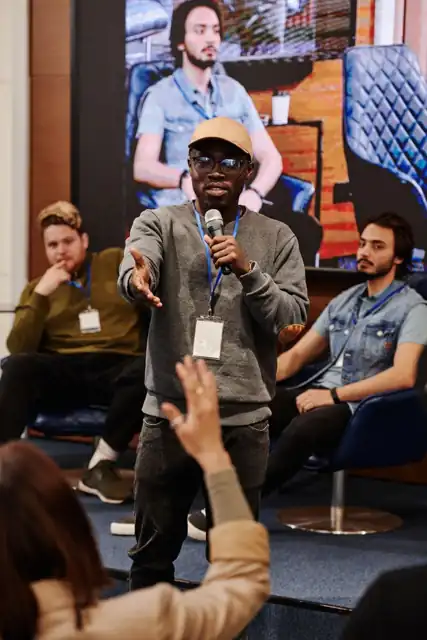
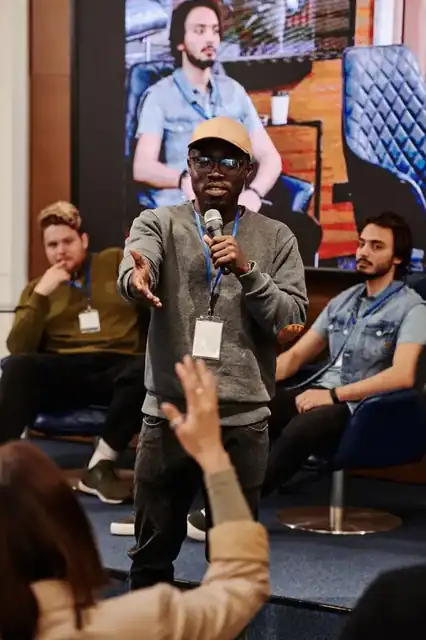
Use unique event imagery across event list

diff --git a/src/data/projects.ts b/src/data/projects.ts
@@ -23,36 +23,36 @@ export const projects: Project[] = [
   { slug: 'skysprint-drone-trial', kind: 'video', category: 'Aerial Tech', top: 'SkySprint', bottom: 'Drone Trial', image: image('drone'), summary: 'Pilot a protected quadcopter through a precision course built by the campus aerial club.' },
   { slug: 'pitchforge-summit', kind: 'photo', category: 'Entrepreneurship', top: 'PitchForge', bottom: 'Summit', image: image('startup'), summary: 'Student founders share early ideas, receive feedback and pitch for small prototype grants.' },
   { slug: 'ampersand-live', kind: 'video', category: 'Music', top: 'Ampersand', bottom: 'Live', image: image('music'), summary: 'Campus bands turn the amphitheatre into a night of original music, covers and collaboration.' },
-  { slug: 'circuitcraft-iot', kind: 'photo', category: 'Technology', top: 'CircuitCraft', bottom: 'IoT Challenge', image: image('code'), summary: 'Build a connected device that makes one everyday college task simpler, safer or more fun.' },
-  { slug: 'botbuild-starter-lab', kind: 'video', category: 'Workshop', top: 'BotBuild', bottom: 'Starter Lab', image: image('robotics'), summary: 'A welcoming hands-on lab for first-time builders to make a small moving machine together.' },
-  { slug: 'ux-for-all', kind: 'photo', category: 'Design', top: 'UX for', bottom: 'All', image: image('design'), summary: 'Audit a student service for clarity and access, then redesign the moments that cause friction.' },
-  { slug: 'color-canvas', kind: 'video', category: 'Arts', top: 'Color', bottom: 'Canvas', image: image('rangoli'), summary: 'An all-day arts festival of murals, installations, sketches and conversations across campus.' },
-  { slug: 'campus-reel-relay', kind: 'photo', category: 'Film', top: 'Campus Reel', bottom: 'Relay', image: image('film'), summary: 'Small crews pass a story from one group to the next, creating one unexpected campus film.' },
-  { slug: 'darkroom-discovery', kind: 'video', category: 'Photography', top: 'Darkroom', bottom: 'Discovery', image: image('photo'), summary: 'Learn the quiet craft of analogue photography, from contact sheet to your first print.' },
-  { slug: 'street-step-cypher', kind: 'photo', category: 'Dance', top: 'Street Step', bottom: 'Cypher', image: image('dance'), summary: 'A casual circle for freestyle, shared movement and a friendly showcase of campus dance styles.' },
-  { slug: 'policy-parley', kind: 'video', category: 'Debate', top: 'Policy &', bottom: 'Parley', image: image('debate'), summary: 'A public forum where student teams unpack a big campus issue through evidence and debate.' },
-  { slug: 'valor-vault-night', kind: 'photo', category: 'Gaming', top: 'Valor Vault', bottom: 'Night', image: image('gaming'), summary: 'A social gaming night with quick brackets, watch parties and space for every skill level.' },
-  { slug: 'aerial-mapping', kind: 'video', category: 'Workshop', top: 'Aerial', bottom: 'Mapping', image: image('drone'), summary: 'Explore the basics of drone imagery, flight planning and responsible aerial mapping.' },
-  { slug: 'founder-friday', kind: 'photo', category: 'Entrepreneurship', top: 'Founder', bottom: 'Friday', image: image('startup'), summary: 'An easygoing pitch night for sharing early startup ideas and meeting possible collaborators.' },
-  { slug: 'acoustic-evenings', kind: 'video', category: 'Music', top: 'Acoustic', bottom: 'Evenings', image: image('music'), summary: 'An intimate open stage for singer-songwriters, unplugged sets and songs worth staying late for.' },
-  { slug: 'algorithm-avalanche', kind: 'photo', category: 'Coding', top: 'Algorithm', bottom: 'Avalanche', image: image('code'), summary: 'An individual coding round of carefully crafted problems, quick thinking and a live leaderboard.' },
-  { slug: 'mechmaze-race', kind: 'video', category: 'Robotics', top: 'MechMaze', bottom: 'Race', image: image('robotics'), summary: 'Build and tune a small robot to navigate a changing maze faster than the teams around you.' },
-  { slug: 'interface-remix', kind: 'photo', category: 'Design', top: 'Interface', bottom: 'Remix', image: image('design'), summary: 'Reimagine a familiar student app with stronger flows, cleaner language and playful interactions.' },
-  { slug: 'heritage-art-carnival', kind: 'video', category: 'Culture', top: 'Heritage Art', bottom: 'Carnival', image: image('rangoli'), summary: 'Student artists celebrate regional patterns, materials and stories in a shared campus carnival.' },
-  { slug: 'script-to-screen', kind: 'photo', category: 'Film', top: 'Script to', bottom: 'Screen', image: image('film'), summary: 'A filmmaking workshop about turning a small written idea into a scene that holds attention.' },
-  { slug: 'lens-light-expo', kind: 'video', category: 'Photography', top: 'Lens & Light', bottom: 'Expo', image: image('photo'), summary: 'A student photography exhibit that brings campus observations, portraits and experiments together.' },
-  { slug: 'campus-dance-crew', kind: 'photo', category: 'Dance', top: 'Campus Dance', bottom: 'Crew', image: image('dance'), summary: 'Crews share choreography, learn from each other and close the day with a collaborative finale.' },
-  { slug: 'model-un-assembly', kind: 'video', category: 'Public Speaking', top: 'Model UN', bottom: 'Assembly', image: image('debate'), summary: 'Represent a country, negotiate a resolution and practice the art of clear, constructive diplomacy.' },
-  { slug: 'mobile-gaming-masters', kind: 'photo', category: 'Esports', top: 'Mobile Gaming', bottom: 'Masters', image: image('gaming'), summary: 'A fast campus tournament for mobile players, spectators and new teams looking for a challenge.' },
-  { slug: 'drone-build-lab', kind: 'video', category: 'Aerial Tech', top: 'Drone Build', bottom: 'Lab', image: image('drone'), summary: 'Learn the components behind safe flight and assemble a simple drone platform with mentors.' },
-  { slug: 'idea-incubator-fest', kind: 'photo', category: 'Innovation', top: 'Idea Incubator', bottom: 'Fest', image: image('startup'), summary: 'An open campus festival for prototypes, feedback walls, mini talks and useful new ideas.' },
-  { slug: 'music-mashup', kind: 'video', category: 'Music', top: 'Music', bottom: 'Mashup', image: image('music'), summary: 'A genre-crossing live session that pairs unexpected student performers for one-off sets.' },
-  { slug: 'debug-derby', kind: 'photo', category: 'Coding', top: 'Debug', bottom: 'Derby', image: image('code'), summary: 'Teams race to understand, repair and explain mysterious bugs hidden inside short code challenges.' },
-  { slug: 'maker-carnival', kind: 'video', category: 'Making', top: 'Maker', bottom: 'Carnival', image: image('robotics'), summary: 'A showcase of campus makers, prototypes, tiny inventions and the stories behind how they work.' },
-  { slug: 'sketch-sprint', kind: 'photo', category: 'Design', top: 'Sketch', bottom: 'Sprint', image: image('design'), summary: 'A quick visual-thinking session for students who want to explore an idea before opening a laptop.' },
-  { slug: 'campus-culture-night', kind: 'video', category: 'Culture', top: 'Campus Culture', bottom: 'Night', image: image('rangoli'), summary: 'Food, music, art and traditions come together in one shared night on the main lawn.' },
-  { slug: 'documentary-dash', kind: 'photo', category: 'Film', top: 'Documentary', bottom: 'Dash', image: image('film'), summary: 'Find a real campus story, earn trust, shoot carefully and edit a two-minute documentary.' },
-  { slug: 'gallery-walk-talk', kind: 'video', category: 'Photography', top: 'Gallery Walk', bottom: '& Talk', image: image('photo'), summary: 'A thoughtful exhibition walk with student photographers sharing the stories behind each frame.' },
+  { slug: 'circuitcraft-iot', kind: 'photo', category: 'Technology', top: 'CircuitCraft', bottom: 'IoT Challenge', image: image('event-13'), summary: 'Build a connected device that makes one everyday college task simpler, safer or more fun.' },
+  { slug: 'botbuild-starter-lab', kind: 'video', category: 'Workshop', top: 'BotBuild', bottom: 'Starter Lab', image: image('event-14'), summary: 'A welcoming hands-on lab for first-time builders to make a small moving machine together.' },
+  { slug: 'ux-for-all', kind: 'photo', category: 'Design', top: 'UX for', bottom: 'All', image: image('event-15'), summary: 'Audit a student service for clarity and access, then redesign the moments that cause friction.' },
+  { slug: 'color-canvas', kind: 'video', category: 'Arts', top: 'Color', bottom: 'Canvas', image: image('event-16'), summary: 'An all-day arts festival of murals, installations, sketches and conversations across campus.' },
+  { slug: 'campus-reel-relay', kind: 'photo', category: 'Film', top: 'Campus Reel', bottom: 'Relay', image: image('event-17'), summary: 'Small crews pass a story from one group to the next, creating one unexpected campus film.' },
+  { slug: 'darkroom-discovery', kind: 'video', category: 'Photography', top: 'Darkroom', bottom: 'Discovery', image: image('event-18'), summary: 'Learn the quiet craft of analogue photography, from contact sheet to your first print.' },
+  { slug: 'street-step-cypher', kind: 'photo', category: 'Dance', top: 'Street Step', bottom: 'Cypher', image: image('event-19'), summary: 'A casual circle for freestyle, shared movement and a friendly showcase of campus dance styles.' },
+  { slug: 'policy-parley', kind: 'video', category: 'Debate', top: 'Policy &', bottom: 'Parley', image: image('event-20'), summary: 'A public forum where student teams unpack a big campus issue through evidence and debate.' },
+  { slug: 'valor-vault-night', kind: 'photo', category: 'Gaming', top: 'Valor Vault', bottom: 'Night', image: image('event-21'), summary: 'A social gaming night with quick brackets, watch parties and space for every skill level.' },
+  { slug: 'aerial-mapping', kind: 'video', category: 'Workshop', top: 'Aerial', bottom: 'Mapping', image: image('event-22'), summary: 'Explore the basics of drone imagery, flight planning and responsible aerial mapping.' },
+  { slug: 'founder-friday', kind: 'photo', category: 'Entrepreneurship', top: 'Founder', bottom: 'Friday', image: image('event-23'), summary: 'An easygoing pitch night for sharing early startup ideas and meeting possible collaborators.' },
+  { slug: 'acoustic-evenings', kind: 'video', category: 'Music', top: 'Acoustic', bottom: 'Evenings', image: image('event-24'), summary: 'An intimate open stage for singer-songwriters, unplugged sets and songs worth staying late for.' },
+  { slug: 'algorithm-avalanche', kind: 'photo', category: 'Coding', top: 'Algorithm', bottom: 'Avalanche', image: image('event-25'), summary: 'An individual coding round of carefully crafted problems, quick thinking and a live leaderboard.' },
+  { slug: 'mechmaze-race', kind: 'video', category: 'Robotics', top: 'MechMaze', bottom: 'Race', image: image('event-26'), summary: 'Build and tune a small robot to navigate a changing maze faster than the teams around you.' },
+  { slug: 'interface-remix', kind: 'photo', category: 'Design', top: 'Interface', bottom: 'Remix', image: image('event-27'), summary: 'Reimagine a familiar student app with stronger flows, cleaner language and playful interactions.' },
+  { slug: 'heritage-art-carnival', kind: 'video', category: 'Culture', top: 'Heritage Art', bottom: 'Carnival', image: image('event-28'), summary: 'Student artists celebrate regional patterns, materials and stories in a shared campus carnival.' },
+  { slug: 'script-to-screen', kind: 'photo', category: 'Film', top: 'Script to', bottom: 'Screen', image: image('event-29'), summary: 'A filmmaking workshop about turning a small written idea into a scene that holds attention.' },
+  { slug: 'lens-light-expo', kind: 'video', category: 'Photography', top: 'Lens & Light', bottom: 'Expo', image: image('event-30'), summary: 'A student photography exhibit that brings campus observations, portraits and experiments together.' },
+  { slug: 'campus-dance-crew', kind: 'photo', category: 'Dance', top: 'Campus Dance', bottom: 'Crew', image: image('event-31'), summary: 'Crews share choreography, learn from each other and close the day with a collaborative finale.' },
+  { slug: 'model-un-assembly', kind: 'video', category: 'Public Speaking', top: 'Model UN', bottom: 'Assembly', image: image('event-32'), summary: 'Represent a country, negotiate a resolution and practice the art of clear, constructive diplomacy.' },
+  { slug: 'mobile-gaming-masters', kind: 'photo', category: 'Esports', top: 'Mobile Gaming', bottom: 'Masters', image: image('event-33'), summary: 'A fast campus tournament for mobile players, spectators and new teams looking for a challenge.' },
+  { slug: 'drone-build-lab', kind: 'video', category: 'Aerial Tech', top: 'Drone Build', bottom: 'Lab', image: image('event-34'), summary: 'Learn the components behind safe flight and assemble a simple drone platform with mentors.' },
+  { slug: 'idea-incubator-fest', kind: 'photo', category: 'Innovation', top: 'Idea Incubator', bottom: 'Fest', image: image('event-35'), summary: 'An open campus festival for prototypes, feedback walls, mini talks and useful new ideas.' },
+  { slug: 'music-mashup', kind: 'video', category: 'Music', top: 'Music', bottom: 'Mashup', image: image('event-36'), summary: 'A genre-crossing live session that pairs unexpected student performers for one-off sets.' },
+  { slug: 'debug-derby', kind: 'photo', category: 'Coding', top: 'Debug', bottom: 'Derby', image: image('event-37'), summary: 'Teams race to understand, repair and explain mysterious bugs hidden inside short code challenges.' },
+  { slug: 'maker-carnival', kind: 'video', category: 'Making', top: 'Maker', bottom: 'Carnival', image: image('event-38'), summary: 'A showcase of campus makers, prototypes, tiny inventions and the stories behind how they work.' },
+  { slug: 'sketch-sprint', kind: 'photo', category: 'Design', top: 'Sketch', bottom: 'Sprint', image: image('event-39'), summary: 'A quick visual-thinking session for students who want to explore an idea before opening a laptop.' },
+  { slug: 'campus-culture-night', kind: 'video', category: 'Culture', top: 'Campus Culture', bottom: 'Night', image: image('event-40'), summary: 'Food, music, art and traditions come together in one shared night on the main lawn.' },
+  { slug: 'documentary-dash', kind: 'photo', category: 'Film', top: 'Documentary', bottom: 'Dash', image: image('event-41'), summary: 'Find a real campus story, earn trust, shoot carefully and edit a two-minute documentary.' },
+  { slug: 'gallery-walk-talk', kind: 'video', category: 'Photography', top: 'Gallery Walk', bottom: '& Talk', image: image('event-42'), summary: 'A thoughtful exhibition walk with student photographers sharing the stories behind each frame.' },
 ]
 
 export const projectTitle = (project: Project) => `${project.top} ${project.bottom}`.trim()
